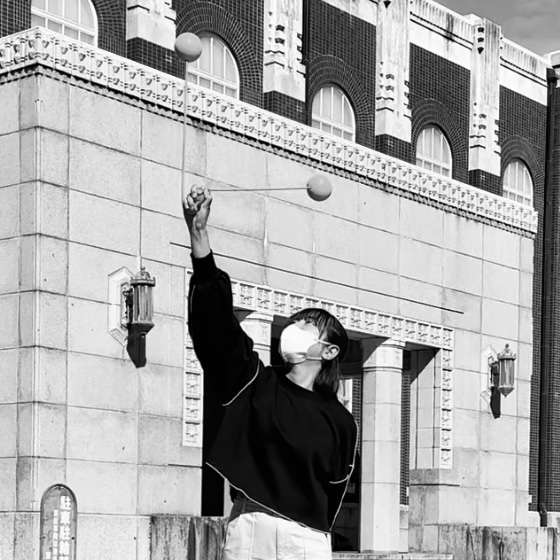
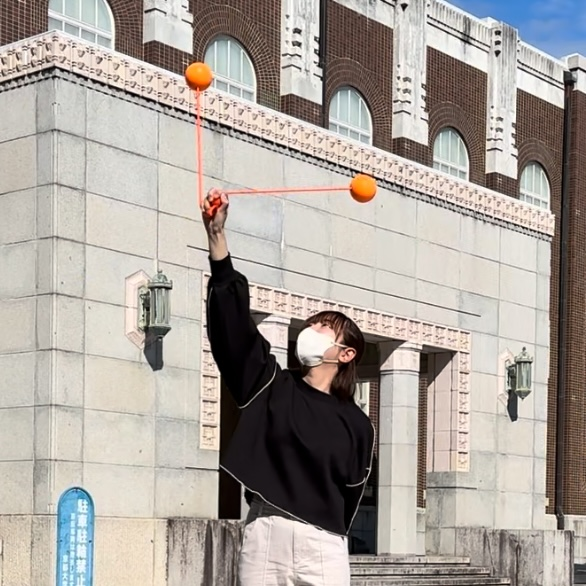
update for jdl2025

diff --git a/templates/jdl.html b/templates/jdl.html
@@ -289,7 +289,9 @@
                 <img src="img/jdl{{year}}/{{ cast.fname }}">
                 <figcaption>
                   {{cast.name}}<br>
+                  {% if cast.equip %}
                   （{{cast.equip}}）
+                  {% endif %}
                 </figcaption>
               </figure>
             </div>
